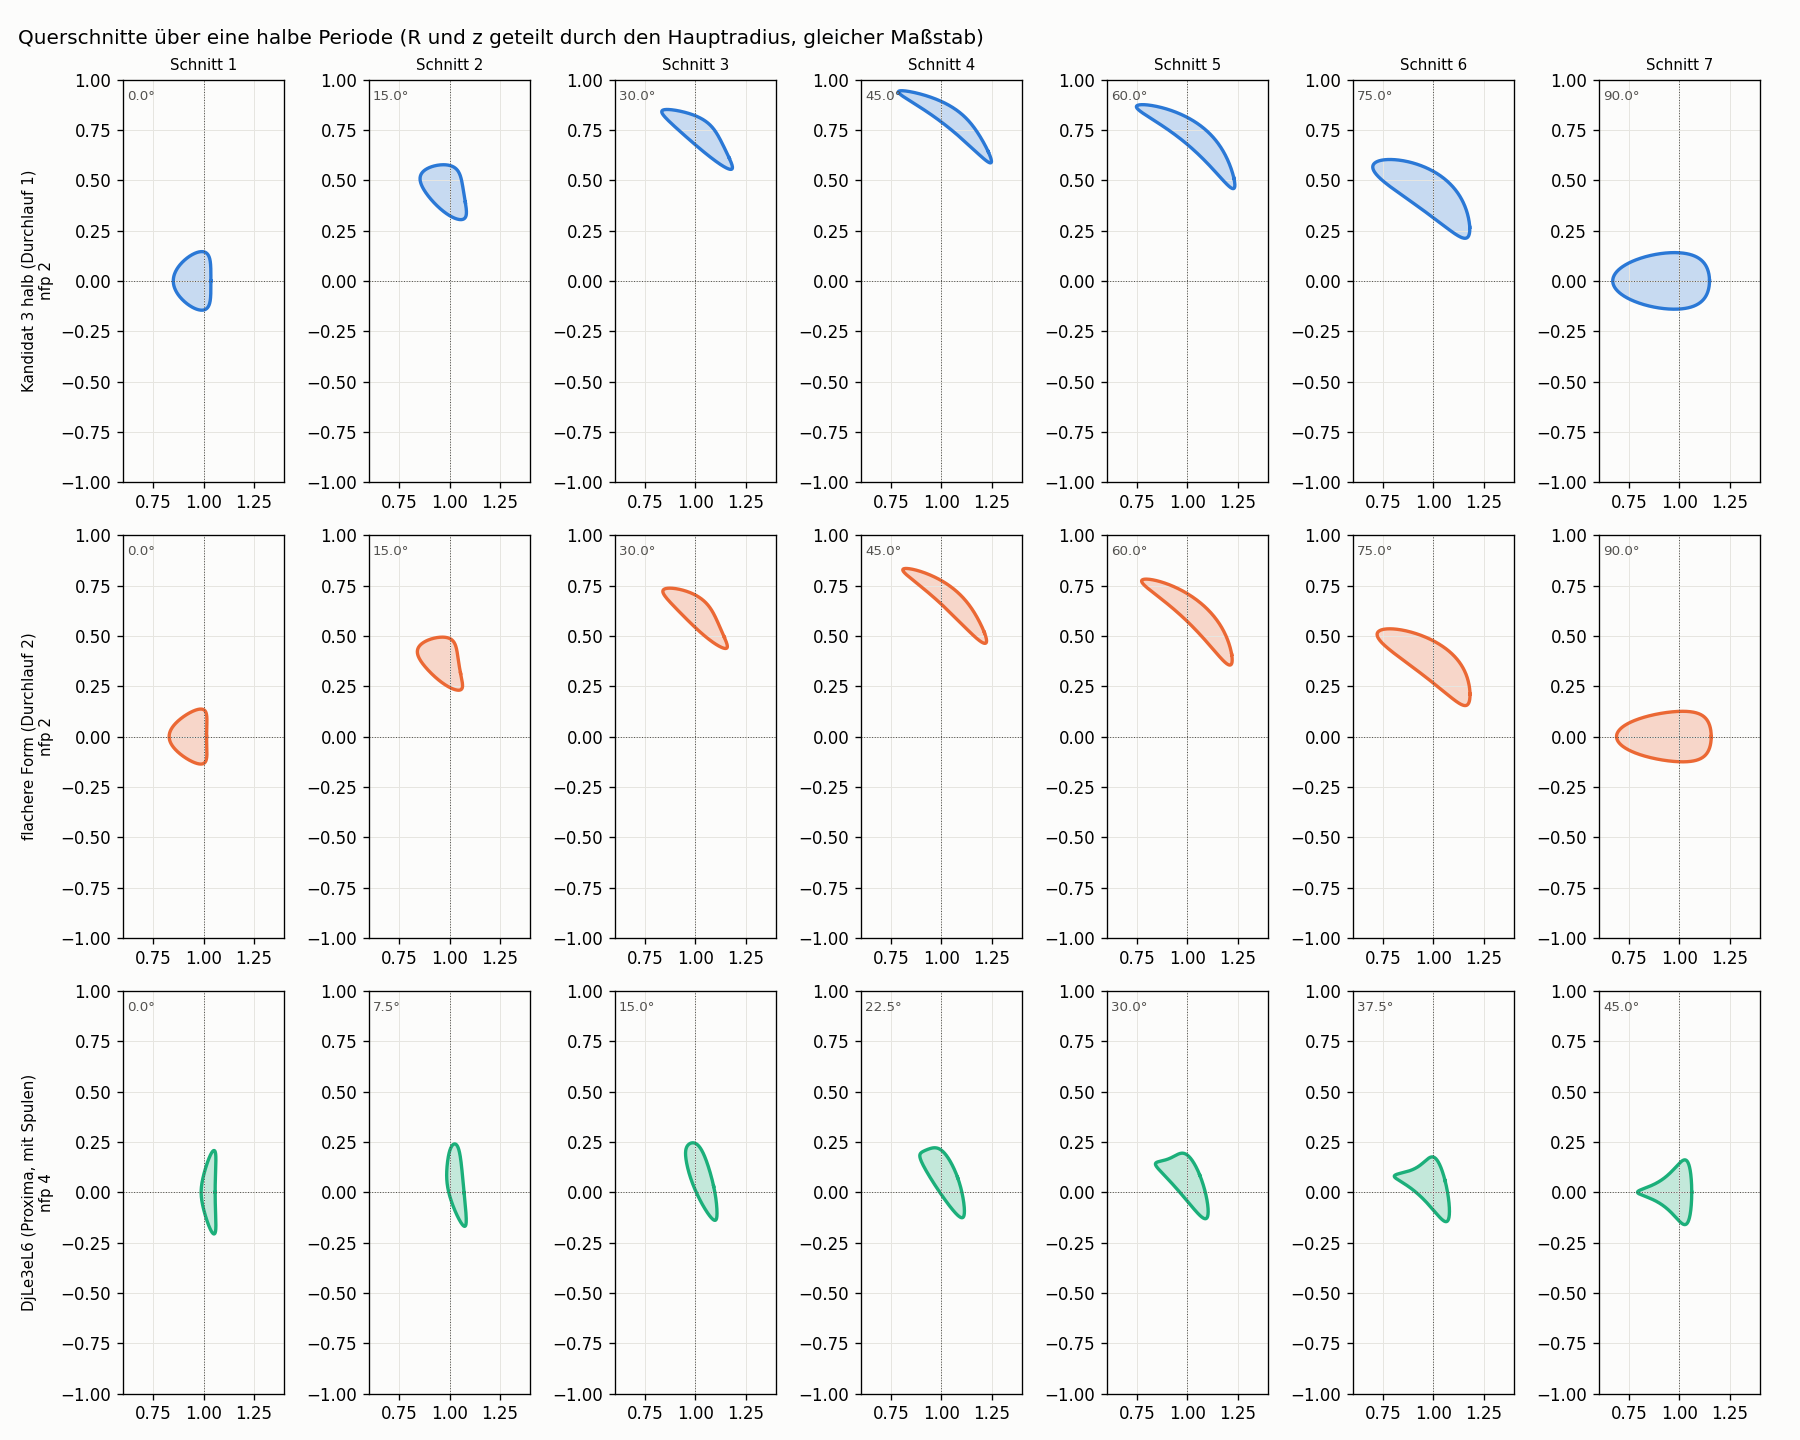
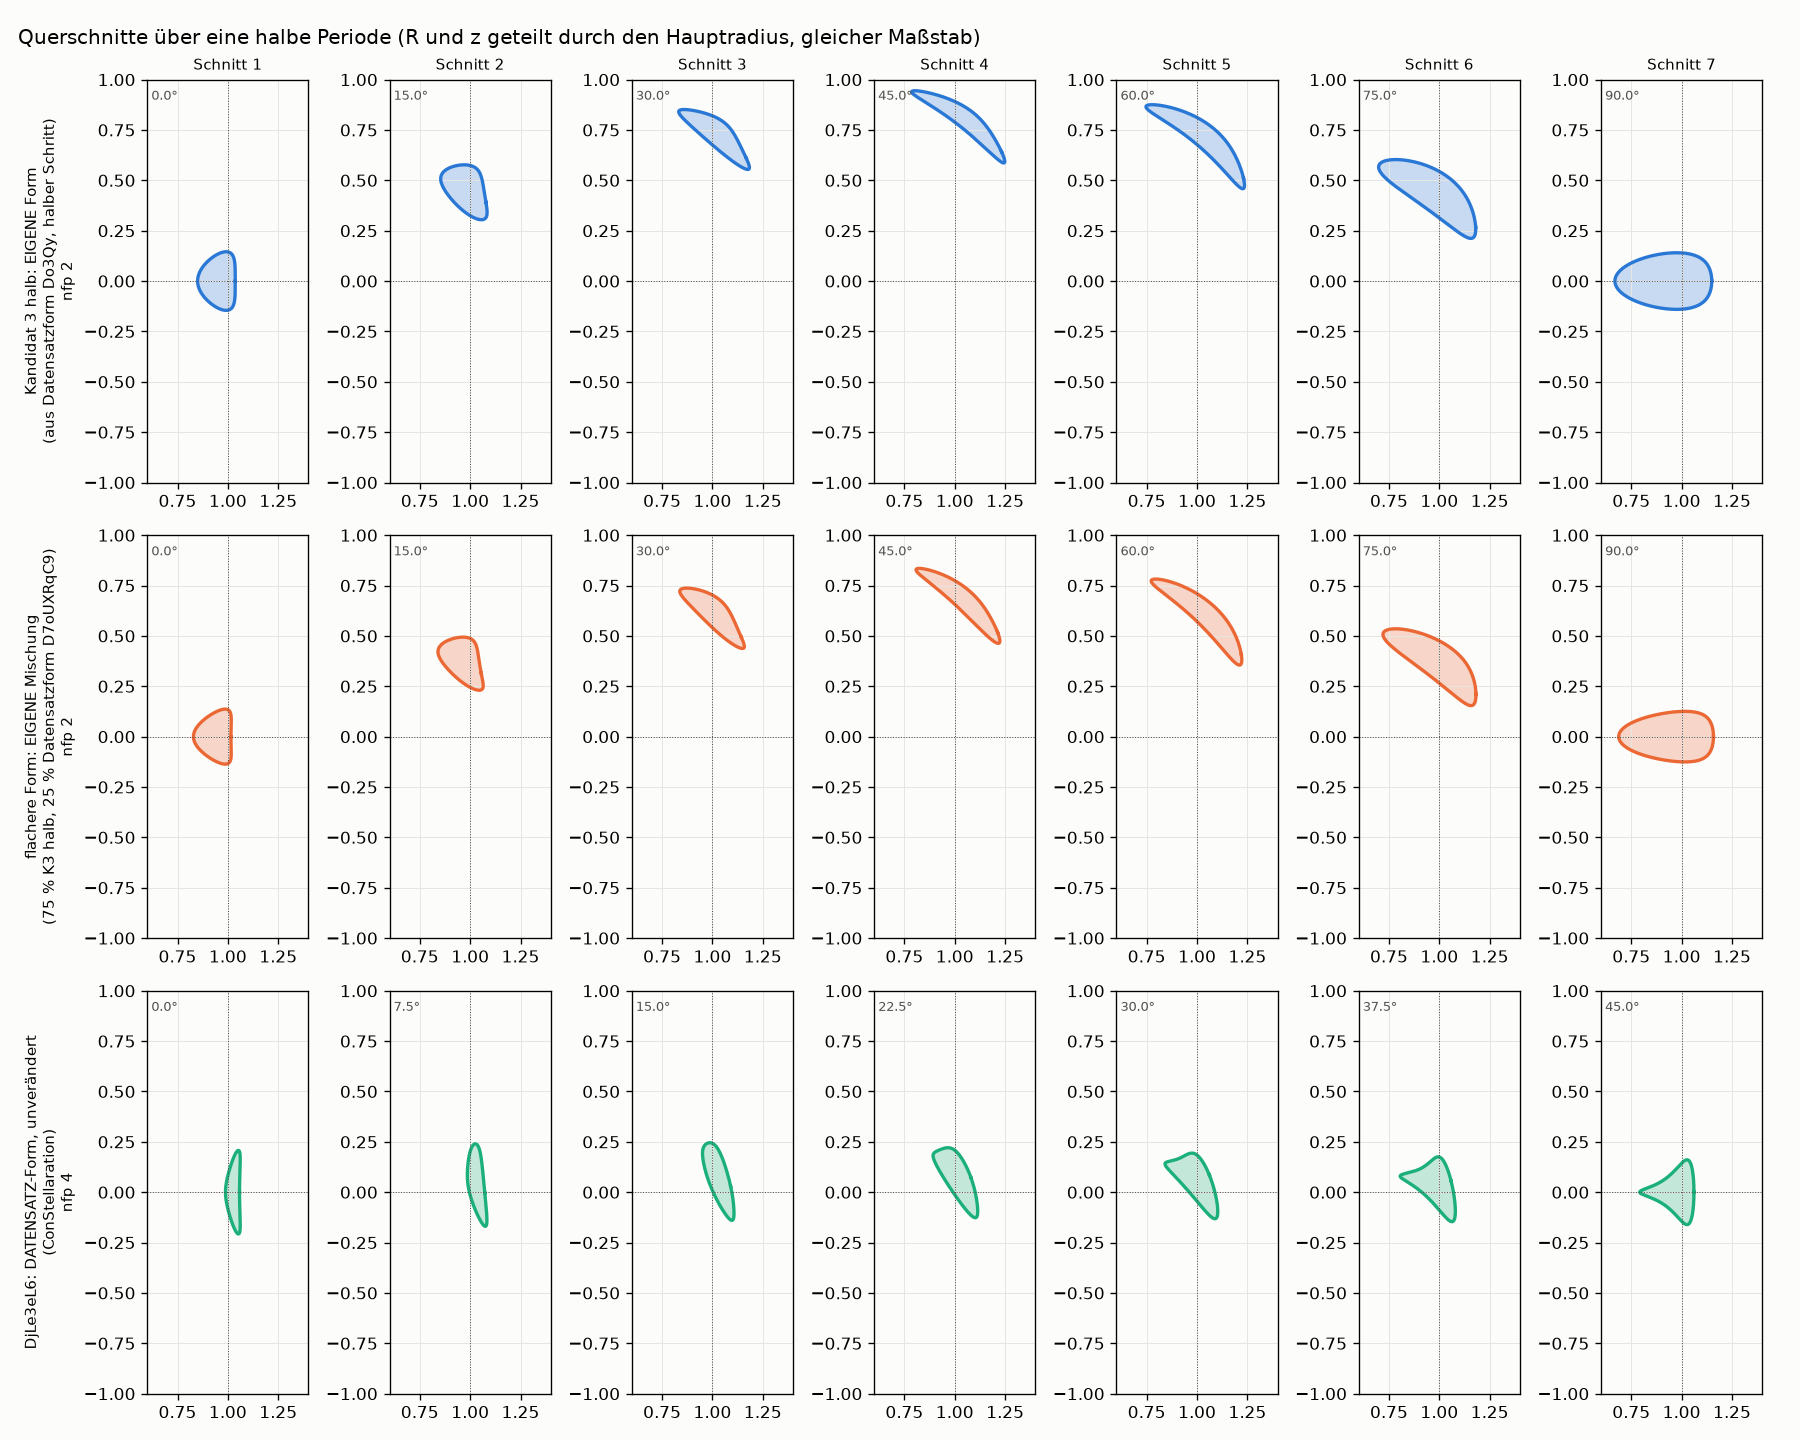
Kreis: Herkunft der Plasmen in Bildern und Bericht

diff --git a/stellarator/kreis_schnitt_spulen.py b/stellarator/kreis_schnitt_spulen.py
@@ -13,9 +13,9 @@ from stellarator.spulen_satz import lade_satz
 
 R = Path(__file__).resolve().parents[1]
 K = R / "sim" / "kette_k3"
-SAETZE = [("Kandidat 3 halb, Durchlauf 1\n(Feldfehler 2,1e-4, im Bauraum)", K / "stage2" / "satz_d100_n10_lr_s56", "#2a78d6"),
-          ("DjLe3eL6, eigene Spulen A085\n(Feldfehler 6,6e-4)", K / "satz_A085", "#1baf7a"),
-          ("DATJ5FC, alter Satz Plan B\n(Feldfehler 5,1e-3, zu enge Längenregel)", K / "planb" / "stage2" / "satz_d085_n5", "#eb6834")]
+SAETZE = [("Kandidat 3 halb: EIGENE Form\n(aus Datensatzform Do3Qy, halber Schritt)\nSpulen Durchlauf 1, Feldfehler 2,1e-4", K / "stage2" / "satz_d100_n10_lr_s56", "#2a78d6"),
+          ("DjLe3eL6: DATENSATZ-Form, unverändert\n(ConStellaration, auch von Proxima genutzt)\neigene Spulen A085, Feldfehler 6,6e-4", K / "satz_A085", "#1baf7a"),
+          ("DATJ5FC: DATENSATZ-Form, unverändert\n(ConStellaration)\nalter Satz Plan B, Feldfehler 5,1e-3", K / "planb" / "stage2" / "satz_d085_n5", "#eb6834")]
 A_M, ROHR_M = 1.80, 0.852
 
 
@@ -68,7 +68,7 @@ def main():
             A.axhline(0, color="#52514e", lw=0.5, ls=":"); A.axvline(1, color="#52514e", lw=0.5, ls=":")
             A.text(0.33, 1.3, f"Spule {b + 1}, um {np.degrees(phi):.1f}°", fontsize=8, color="#52514e")
             if k == 0:
-                A.set_ylabel(name + f"\nnfp {nfp}", fontsize=8.5)
+                A.set_ylabel(name + f"\nnfp {nfp}", fontsize=8)
     fig.suptitle("Spulen (grau, Breite = Rohr 0,85 m bei a = 1,80 m) um den Plasmaquerschnitt an ihrer Lage; Spule seitlich auf (R, z) projiziert. Maßstab: Hauptradius = 1",
                  fontsize=11, x=0.01, ha="left")
     fig.tight_layout(); fig.savefig(R / "docs/recherche/spulen_suche/kreis/schnitt_spulen.png", dpi=115)

diff --git a/stellarator/kreis_querschnitte.py b/stellarator/kreis_querschnitte.py
@@ -9,9 +9,9 @@ import matplotlib.pyplot as plt
 import numpy as np
 
 R = Path(__file__).resolve().parents[1]
-FORMEN = [("Kandidat 3 halb (Durchlauf 1)", R / "sim/qi_flaeche/gegenrechnung_klein/form_k3_f0.5.json", "#2a78d6"),
-          ("flachere Form (Durchlauf 2)", R / "sim/kette_k3/kreis2/form_misch91.json", "#eb6834"),
-          ("DjLe3eL6 (Proxima, mit Spulen)", R / "sim/kette_k3/satz_A085/boundary.json", "#1baf7a")]
+FORMEN = [("Kandidat 3 halb: EIGENE Form\n(aus Datensatzform Do3Qy, halber Schritt)", R / "sim/qi_flaeche/gegenrechnung_klein/form_k3_f0.5.json", "#2a78d6"),
+          ("flachere Form: EIGENE Mischung\n(75 % K3 halb, 25 % Datensatzform D7oUXRqC9)", R / "sim/kette_k3/kreis2/form_misch91.json", "#eb6834"),
+          ("DjLe3eL6: DATENSATZ-Form, unverändert\n(ConStellaration)", R / "sim/kette_k3/satz_A085/boundary.json", "#1baf7a")]
 
 
 def rz(f, phi, th):

diff --git a/docs/recherche/spulen_suche/kreis_bericht.md b/docs/recherche/spulen_suche/kreis_bericht.md
@@ -6,6 +6,17 @@
 
 **Kurzantwort.** Zwei Durchläufe sind gerechnet. Unser Plasma hat jetzt Spulen, die in den angenommenen Bauraum passen, und verliert dadurch nur etwa 7 % QI. Die Kräfte bleiben der offene Punkt. Die flachere Form hat die größte Spulenkraft um 19 % gesenkt, kostet aber das 2,3-Fache an QI, und wir können nicht belegen, dass die Abflachung der Grund ist. Geschlossen ist der Kreis noch nicht: Tragwerk-FEM, Kühlung und Plasmadruck fehlen. Die Aufgaben 2 und 3 der Challenge erfüllt keine dieser Formen.
 
+## Woher die Plasmen kommen
+
+| Name | Herkunft | nfp |
+|---|---|---|
+| Kandidat 3 halb (K3 halb) | **eigene Form**: aus der besten Datensatzform Do3QyJbtRhtGhrTiBSBbyKM, halber Schritt unserer Suche (B-050); QI 4,7e-5, kommt im Datensatz nicht vor | 2 |
+| flachere Form (misch91, Durchlauf 2) | **eigene Mischung**: 75 % K3 halb, 25 % Datensatzform D7oUXRqC9 | 2 |
+| DjLe3eL6 | **Datensatzform, unverändert** (ConStellaration; auch Proximas Ausgangsform) | 4 |
+| DATJ5FC | **Datensatzform, unverändert** (ConStellaration) | 4 |
+
+Die Spulen sind getrennt davon zu sehen: A085 und d100_… sind eigene Spulensätze, „Proxima-Spulen“ sind fremd.
+
 ## Was ist ein Durchlauf?
 
 | Schritt | Werkzeug | Stand |
@@ -134,3 +145,5 @@ Bei DjLe3eL6 mit Proxima-Spulen hält die Stromtrimmung auch im fertigen Lauf: B
 Two passes of the loop plasma → coils → tube → free-boundary plasma → forces are computed. With 48,000 solver steps the loss factor is finally reliable: Proxima coils 1.53, our A085 coils 1.29 (both on DjLe3eL6), our coils on candidate 3 half 1.07. Values after 3,000 steps mislead in both directions. **Pass 1** gives a coil set that fits the assumed space (a = 1.80 m, 1.3 m plasma–coil clearance, 1.0 m coil package): field error 2.10e-4, no tube intersection, QI with coils 5.14e-5, largest net force 1261 MN. **Pass 2** uses a flatter shape (elongation 6.33 instead of 7.15): largest net force 1021 MN (−19 %), but QI rises 2.3 times to 1.17e-4 (preliminary) and the sum of net forces stays the same. Two coil sets of the same plasma differ more than that, so the flattening is not shown to be the cause. The loop is not closed yet: FEM structure, cooling and plasma pressure are missing, and no shape meets challenge tasks 2 or 3. Next step: make force an objective of the coil search before giving up more QI.
 
 Coil cross-sections (schnitt_spulen.png): the coils of candidate 3 half reach far out (up to 1.2 major radii high, with kinks and small loops). DjLe3eL6 with our A085 coils stays compact. The dataset shape DATJ5FC (not ours) has the smoothest coils, but its old set has a 25 times larger field error and was not made under this loop's space limits, so a fair comparison needs a pass with the same limits.
+
+Origin of the plasmas: candidate 3 half and the flatter blend are our own shapes (derived from dataset shape Do3Qy, blend with D7oUXRqC9); DjLe3eL6 and DATJ5FC are unmodified ConStellaration dataset shapes.
